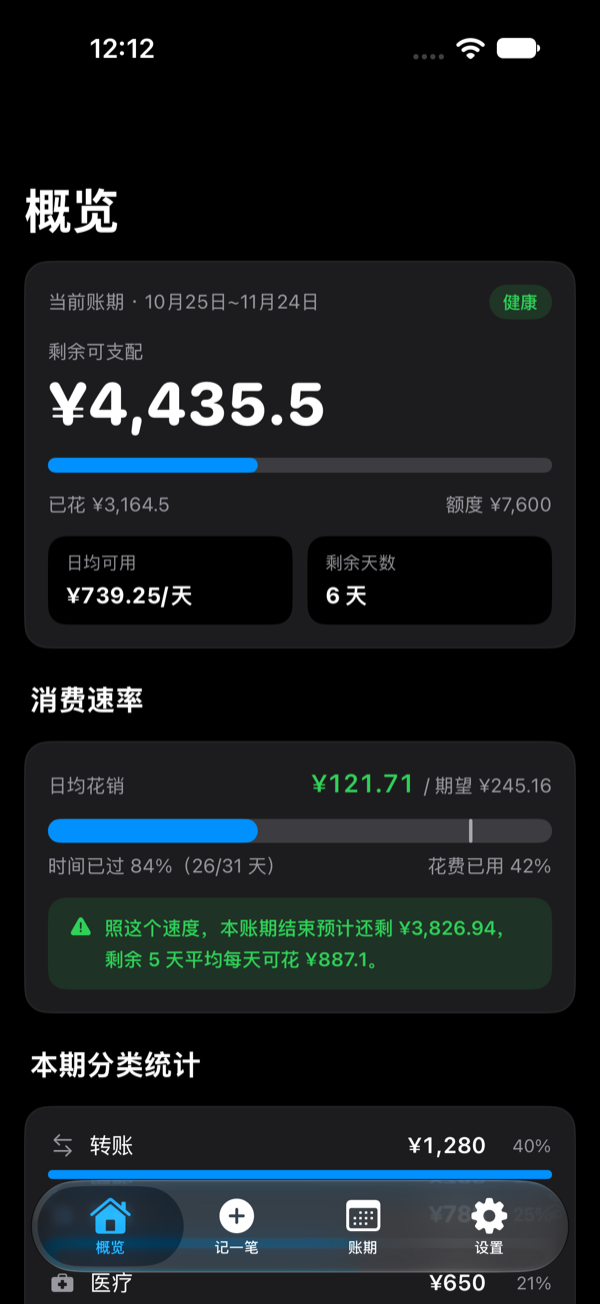
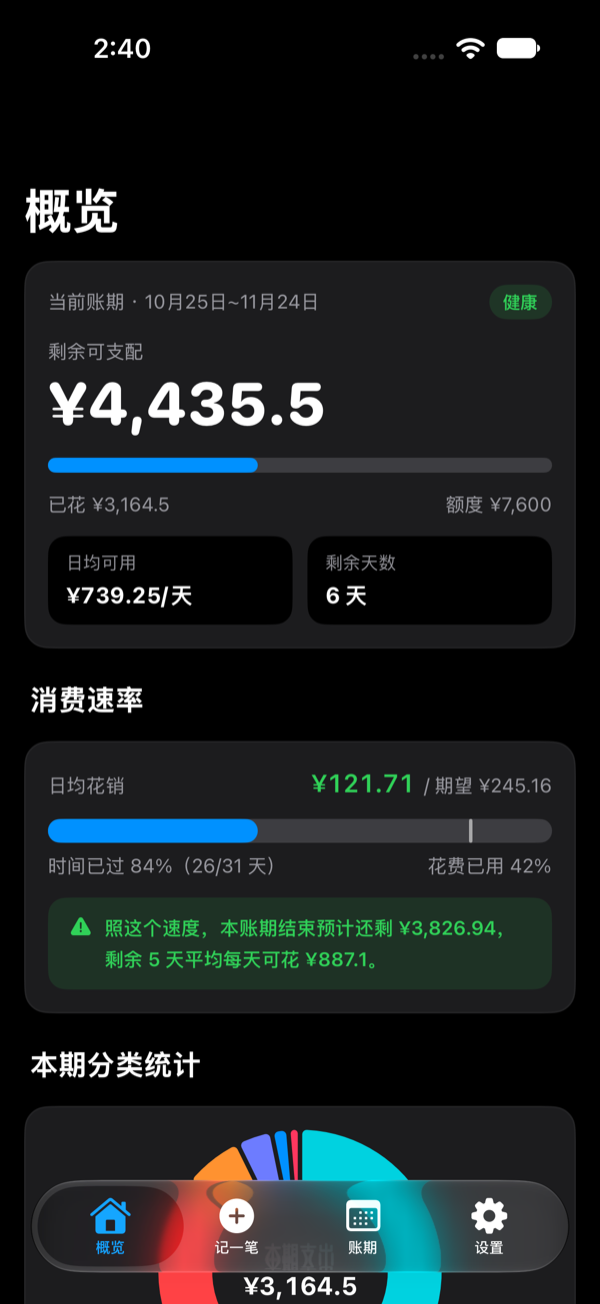
feat: 概览页分类统计改为扇形图

Changed region(s): [[0.06, 0.8589, 0.93, 1.0], [0.15, 0.0307, 0.27, 0.0613], [0.87, 0.9816, 0.93, 1.0]]

diff --git a/Budget-ios/Views/HomeView.swift b/Budget-ios/Views/HomeView.swift
@@ -1,3 +1,4 @@
+import Charts
 import SwiftUI
 
 struct HomeView: View {
@@ -114,18 +115,6 @@ struct HomeView: View {
         }
 
         categorySection(for: period)
-
-        Button {
-            store.selectedTab = .add
-        } label: {
-            Label("记一笔", systemImage: "plus.circle.fill")
-                .font(.headline)
-                .frame(maxWidth: .infinity)
-                .padding(.vertical, 4)
-        }
-        .buttonStyle(.borderedProminent)
-        .controlSize(.large)
-        .padding(.top, 2)
     }
 
     // MARK: - 消费速率
@@ -192,6 +181,7 @@ struct HomeView: View {
     @ViewBuilder
     private func categorySection(for period: BudgetPeriod) -> some View {
         let stats = store.categoryStats(for: period)
+        let total = stats.reduce(0) { $0 + $1.amount }
 
         SectionTitle("本期分类统计")
 
@@ -203,41 +193,50 @@ struct HomeView: View {
                     .frame(maxWidth: .infinity)
                     .padding(.vertical, 10)
             } else {
-                let total = stats.reduce(0) { $0 + $1.amount }
-                let maxValue = stats.map(\.amount).max() ?? 1
+                Chart(stats) { stat in
+                    SectorMark(
+                        angle: .value("金额", stat.amount),
+                        innerRadius: .ratio(0.62),
+                        angularInset: 1.5
+                    )
+                    .cornerRadius(3)
+                    .foregroundStyle(Categories.color(for: stat.cat))
+                }
+                .chartLegend(.hidden)
+                .frame(height: 190)
+                .overlay {
+                    VStack(spacing: 2) {
+                        Text("本期支出")
+                            .font(.caption)
+                            .foregroundStyle(.secondary)
+                        Text(Money.string(total))
+                            .font(.headline.weight(.bold))
+                            .monospacedDigit()
+                            .lineLimit(1)
+                            .minimumScaleFactor(0.7)
+                    }
+                    .padding(.horizontal, 24)
+                }
+                .accessibilityLabel("本期分类支出扇形图")
 
-                VStack(spacing: 13) {
+                VStack(spacing: 10) {
                     ForEach(stats) { stat in
-                        VStack(spacing: 6) {
-                            HStack(spacing: 8) {
-                                Image(systemName: Categories.symbol(for: stat.cat, type: .expense))
-                                    .font(.footnote)
-                                    .foregroundStyle(.secondary)
-                                    .frame(width: 20)
-                                Text(stat.cat)
-                                    .font(.subheadline)
-                                Spacer()
-                                Text(Money.string(stat.amount))
-                                    .font(.subheadline.weight(.semibold))
-                                    .monospacedDigit()
-                                Text("\(Int((stat.amount / total * 100).rounded()))%")
-                                    .font(.caption)
-                                    .foregroundStyle(.secondary)
-                                    .frame(width: 36, alignment: .trailing)
-                            }
-                            BarView(value: max(0.04, stat.amount / maxValue), color: .accentColor, height: 6)
+                        HStack(spacing: 8) {
+                            Circle()
+                                .fill(Categories.color(for: stat.cat))
+                                .frame(width: 8, height: 8)
+                            Text(stat.cat)
+                                .font(.subheadline)
+                            Spacer()
+                            Text(Money.string(stat.amount))
+                                .font(.subheadline.weight(.semibold))
+                                .monospacedDigit()
+                            Text("\(Int((stat.amount / total * 100).rounded()))%")
+                                .font(.caption)
+                                .foregroundStyle(.secondary)
+                                .frame(width: 36, alignment: .trailing)
                         }
                     }
-
-                    Divider()
-
-                    HStack {
-                        Text("共 \(stats.count) 个分类")
-                        Spacer()
-                        Text("合计 \(Money.string(total))")
-                    }
-                    .font(.footnote)
-                    .foregroundStyle(.secondary)
                 }
             }
         }

diff --git a/Budget-ios/Support/Support.swift b/Budget-ios/Support/Support.swift
@@ -139,6 +139,16 @@ extension View {
         #endif
     }
 
+    /// iOS 上压缩列表分段间距（macOS 不提供该 API）
+    @ViewBuilder
+    func compactListSectionSpacing() -> some View {
+        #if os(iOS)
+        listSectionSpacing(.compact)
+        #else
+        self
+        #endif
+    }
+
     /// 居中并限制内容宽度，适配 iPad 与 Mac 的大窗口
     func readableWidth(_ width: CGFloat = 640) -> some View {
         frame(maxWidth: width, alignment: .leading)
@@ -328,6 +338,36 @@ enum Categories {
             return hit.symbol
         }
         return aliases[cat] ?? "sparkles"
+    }
+
+    /// 分类配色：扇形图与图例共用，未知分类落到灰色
+    static func color(for cat: String) -> Color {
+        switch cat {
+        case "餐饮", "伙食":
+            .orange
+        case "零食", "社交", "人情":
+            .pink
+        case "网购", "日用":
+            .purple
+        case "交通", "通勤", "旅行":
+            .blue
+        case "转账", "借出", "借出垫付":
+            .teal
+        case "医疗":
+            .red
+        case "娱乐", "学习":
+            .indigo
+        case "房租", "住房", "月供", "还款":
+            .brown
+        case "通讯", "话费", "宽带", "订阅":
+            .cyan
+        case "买菜", "宠物":
+            .green
+        case "服饰":
+            .mint
+        default:
+            .gray
+        }
     }
 }
 

diff --git a/README.md b/README.md
@@ -37,7 +37,7 @@
 - **消费速率预测**：按日均花费外推期末余额；花得太快会给出预警，超支则直接标红。
 - **固定收支模板**：工资、房租、月供填一次，之后可一键生成后续账期，或在编辑账期时自动带入。
 - **10 秒记一笔**：支出 / 收入、分类、备注、日期，键盘一收就能保存。
-- **分类统计**：本期钱花在了哪里，按金额排序一目了然。
+- **分类统计**：扇形图按金额占比展示本期的钱花在哪里，配色图例一目了然。
 - **iCloud 同步与备份**：同一 Apple 账户下的 iPhone、iPad、Mac 自动同步；本机优先，冲突时以更新时间较新的版本为准。
 - **JSON 导入 / 导出**：随时备份、迁移，也能直接导入旧版 H5 的数据。
 - **原生多端体验**：动态字体、深色模式、iPad 与 Mac 的自适应布局，Mac 上还支持菜单与快捷键。
